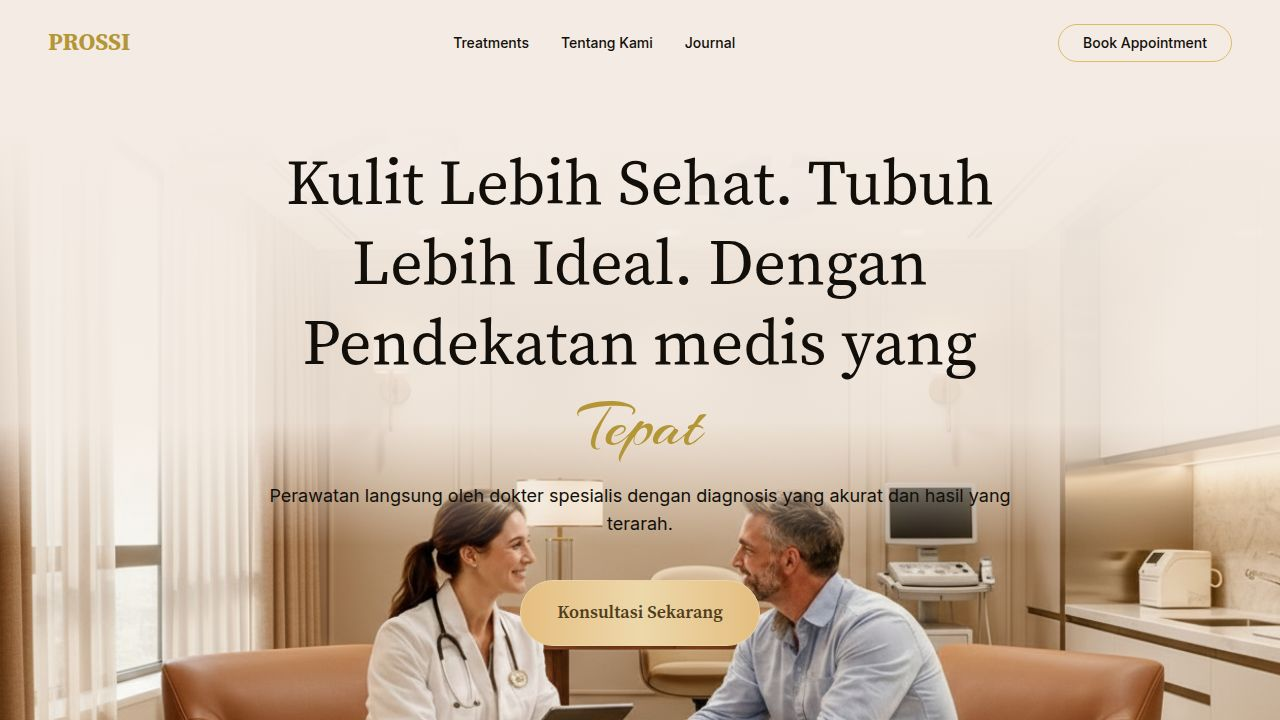
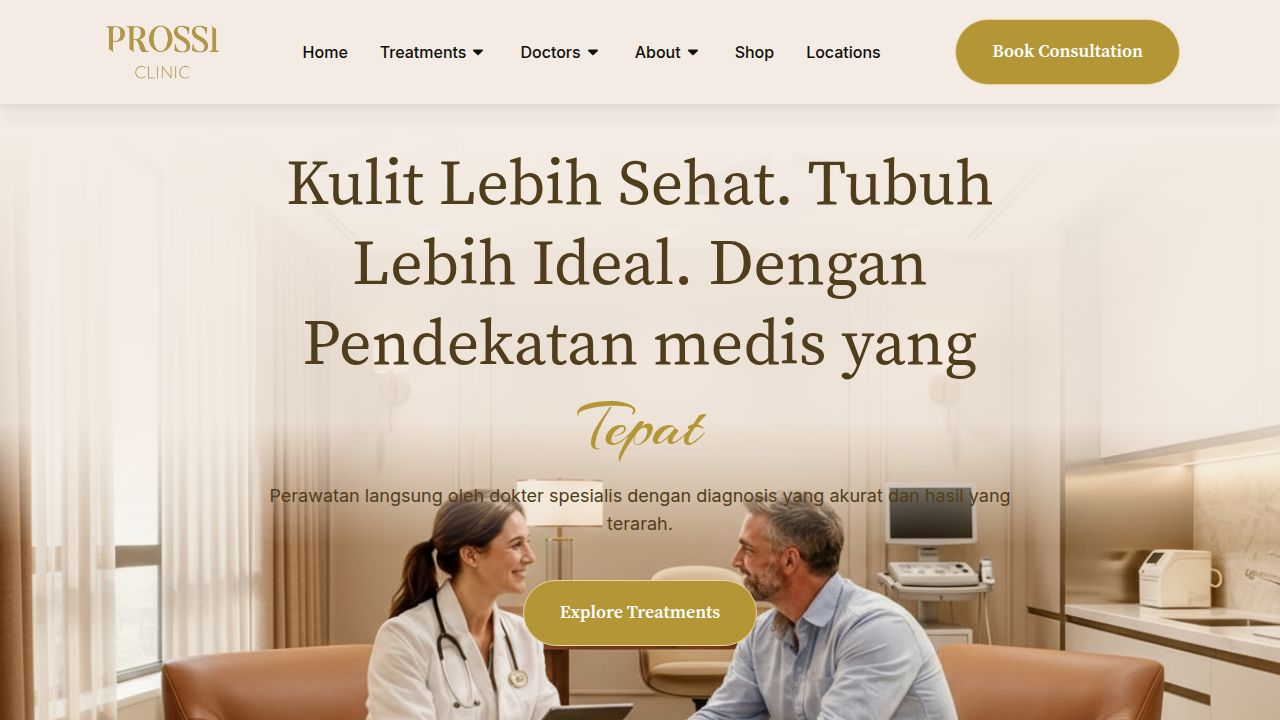
Update website appearance and fix various display issues
Refactor UI components, adjust styling, and resolve display bugs across multiple sections of the application.

Replit-Commit-Author: Agent
Replit-Commit-Session-Id: a7e3f302-8507-4999-b851-2c432ed7d416
Replit-Commit-Checkpoint-Type: full_checkpoint
Replit-Commit-Event-Id: 56c00a30-6593-4453-9301-af835bf2e9e8
Replit-Commit-Screenshot-Url: https://storage.googleapis.com/screenshot-production-us-central1/4498c266-a2f2-46f4-b6d2-e0b29c64a6cc/a7e3f302-8507-4999-b851-2c432ed7d416/XmeTHyD
Replit-Helium-Checkpoint-Created: true

diff --git a/artifacts/prossi/src/components/Header.tsx b/artifacts/prossi/src/components/Header.tsx
@@ -1,53 +1,76 @@
 import React, { useState } from "react";
 import { Link } from "wouter";
 import imgUntitledDesign181 from "@/assets/figma/imgUntitledDesign181.png";
+import imgIconamoonArrowUp2Fill from "@/assets/figma/imgIconamoonArrowUp2Fill.svg";
+
+const navItems = [
+  { label: "Home", dropdown: false },
+  { label: "Treatments", dropdown: true },
+  { label: "Doctors", dropdown: true },
+  { label: "About", dropdown: true },
+  { label: "Shop", dropdown: false },
+  { label: "Locations", dropdown: false },
+];
 
 export function Header() {
   const [isOpen, setIsOpen] = useState(false);
 
   return (
-    <header className="absolute top-0 left-0 right-0 z-50 flex items-center justify-between px-6 py-4 md:px-12 md:py-6 max-w-[1440px] mx-auto">
-      <div className="flex items-center gap-4">
+    <header className="absolute top-0 left-0 right-0 z-50 bg-[#f4ece4] px-6 md:px-[100px] py-4 shadow-[0px_18px_9px_rgba(56,0,30,0.03),0px_5px_5px_rgba(56,0,30,0.04)]">
+      <div className="max-w-[1240px] mx-auto flex items-center justify-between">
         <Link href="/">
-          <div className="cursor-pointer">
-            <img src={imgUntitledDesign181} alt="Prossi Clinic" className="w-[128px] h-[72px] object-contain" />
-          </div>
+          <img
+            src={imgUntitledDesign181}
+            alt="Prossi Clinic"
+            className="w-[128px] h-[72px] object-contain cursor-pointer"
+          />
         </Link>
+
+        <nav className="hidden lg:flex items-center gap-8">
+          {navItems.map((item) => (
+            <button
+              key={item.label}
+              className="flex items-center gap-0.5 text-[16px] font-medium text-[#120f0b] hover:text-[#b59637] transition-colors"
+            >
+              {item.label}
+              {item.dropdown && (
+                <img src={imgIconamoonArrowUp2Fill} alt="" className="w-5 h-5 rotate-180" />
+              )}
+            </button>
+          ))}
+        </nav>
+
+        <button className="hidden lg:flex bg-[#b59637] border border-[#ecd5a5] rounded-full px-9 py-[18px] text-white font-serif font-semibold text-lg hover:opacity-90 transition-opacity items-center justify-center">
+          Book Consultation
+        </button>
+
+        {/* Mobile menu button */}
+        <button
+          className="lg:hidden flex flex-col gap-1.5 z-50 p-2"
+          onClick={() => setIsOpen(!isOpen)}
+        >
+          <span className={`block w-6 h-0.5 bg-[#120f0b] transition-transform ${isOpen ? 'rotate-45 translate-y-2' : ''}`}></span>
+          <span className={`block w-6 h-0.5 bg-[#120f0b] transition-opacity ${isOpen ? 'opacity-0' : ''}`}></span>
+          <span className={`block w-6 h-0.5 bg-[#120f0b] transition-transform ${isOpen ? '-rotate-45 -translate-y-2' : ''}`}></span>
+        </button>
       </div>
-      
-      {/* Mobile menu button */}
-      <button 
-        className="md:hidden flex flex-col gap-1.5 z-50 p-2"
-        onClick={() => setIsOpen(!isOpen)}
-      >
-        <span className={`block w-6 h-0.5 bg-[#120f0b] transition-transform ${isOpen ? 'rotate-45 translate-y-2' : ''}`}></span>
-        <span className={`block w-6 h-0.5 bg-[#120f0b] transition-opacity ${isOpen ? 'opacity-0' : ''}`}></span>
-        <span className={`block w-6 h-0.5 bg-[#120f0b] transition-transform ${isOpen ? '-rotate-45 -translate-y-2' : ''}`}></span>
-      </button>
 
       {/* Mobile menu overlay */}
       {isOpen && (
-        <div className="absolute top-full left-0 right-0 bg-white/95 backdrop-blur-sm shadow-md py-6 px-6 flex flex-col gap-6 md:hidden">
-          <Link href="/treatments"><span className="cursor-pointer hover:text-[#b59637] transition-colors font-medium">Treatments</span></Link>
-          <Link href="/about"><span className="cursor-pointer hover:text-[#b59637] transition-colors font-medium">Tentang Kami</span></Link>
-          <Link href="/journal"><span className="cursor-pointer hover:text-[#b59637] transition-colors font-medium">Journal</span></Link>
-          <button className="w-full px-6 py-3 rounded-full border border-[#deba69] text-[#120f0b] font-medium text-sm hover:bg-[#deba69] hover:text-white transition-colors mt-2">
-            Book Appointment
+        <div className="lg:hidden mt-4 flex flex-col gap-4 pb-2">
+          {navItems.map((item) => (
+            <span
+              key={item.label}
+              className="cursor-pointer hover:text-[#b59637] transition-colors font-medium text-[#120f0b]"
+            >
+              {item.label}
+            </span>
+          ))}
+          <button className="bg-[#b59637] border border-[#ecd5a5] rounded-full px-9 py-3 text-white font-serif font-semibold text-base mt-1">
+            Book Consultation
           </button>
         </div>
       )}
-      
-      <nav className="hidden md:flex items-center gap-8 font-medium text-sm text-[#120f0b]">
-        <Link href="/treatments"><span className="cursor-pointer hover:text-[#b59637] transition-colors">Treatments</span></Link>
-        <Link href="/about"><span className="cursor-pointer hover:text-[#b59637] transition-colors">Tentang Kami</span></Link>
-        <Link href="/journal"><span className="cursor-pointer hover:text-[#b59637] transition-colors">Journal</span></Link>
-      </nav>
-      
-      <div className="hidden md:flex items-center gap-4">
-        <button className="px-6 py-2 rounded-full border border-[#deba69] text-[#120f0b] font-medium text-sm hover:bg-[#deba69] hover:text-white transition-colors">
-          Book Appointment
-        </button>
-      </div>
     </header>
   );
 }

diff --git a/artifacts/prossi/src/components/sections/Stats.tsx b/artifacts/prossi/src/components/sections/Stats.tsx
@@ -1,21 +1,38 @@
 import React from "react";
+import imgPremium from "@/assets/figma/imgPremium187273551.svg";
+import imgSpecialist from "@/assets/figma/imgLayer2.svg";
+import imgShield from "@/assets/figma/imgShield131932661.svg";
 
 export function Stats() {
   const stats = [
-    { value: "10+", label: "Tahun Pengalaman" },
-    { value: "15.500+", label: "Pasien Terpercaya" },
-    { value: "92%", label: "Tingkat Kepuasan" }
+    { value: "10+", label: "Tahun Pengalaman", icon: imgPremium },
+    { value: "15,000+", label: "Pasien Ditangani", icon: imgSpecialist },
+    { value: "92%", label: "Patient Satisfaction", icon: imgShield },
   ];
 
   return (
-    <section className="bg-[#f4ece4] w-full py-12 px-6 flex justify-center">
-      <div className="max-w-[1240px] w-full flex flex-col md:flex-row justify-center items-center gap-12 md:gap-32 border-y border-[#deba69]/30 py-8">
-        {stats.map((stat, i) => (
-          <div key={i} className="flex flex-col items-center text-center gap-2">
-            <span className="font-serif font-semibold text-4xl md:text-5xl text-[#c26345]">{stat.value}</span>
-            <span className="font-sans font-medium text-lg text-[#120f0b] opacity-80">{stat.label}</span>
-          </div>
-        ))}
+    <section className="relative z-30 w-full flex justify-center px-6 -mt-[120px] mb-[-70px]">
+      <div className="max-w-[1240px] w-full backdrop-blur-[11px] bg-[rgba(255,248,242,0.85)] rounded-[32px] px-8 md:px-[64px] py-8 md:py-[32px] shadow-[0px_18px_40px_rgba(56,0,30,0.08)]">
+        <div className="flex flex-col md:flex-row items-center justify-between gap-8 md:gap-0">
+          {stats.map((stat, i) => (
+            <React.Fragment key={i}>
+              <div className="flex items-center gap-5">
+                <img src={stat.icon} alt="" className="w-[54px] h-[54px] shrink-0" />
+                <div className="flex flex-col">
+                  <span className="font-serif font-semibold text-[40px] text-[#503d1c] capitalize leading-none">
+                    {stat.value}
+                  </span>
+                  <span className="font-sans text-lg text-[#120f0b] opacity-80 mt-1">
+                    {stat.label}
+                  </span>
+                </div>
+              </div>
+              {i < stats.length - 1 && (
+                <div className="hidden md:block w-px self-stretch bg-[#503d1c]/20" />
+              )}
+            </React.Fragment>
+          ))}
+        </div>
       </div>
     </section>
   );

diff --git a/artifacts/prossi/src/components/sections/Hero.tsx b/artifacts/prossi/src/components/sections/Hero.tsx
@@ -1,6 +1,7 @@
 import React from "react";
 import imgBackground1 from "@/assets/figma/imgBackground1.png";
-import imgFrame1618873279 from "@/assets/figma/imgFrame1618873279.jpg";
+import imgSystemUiconsArrowLeft from "@/assets/figma/imgSystemUiconsArrowLeft.svg";
+import imgSystemUiconsArrowLeft1 from "@/assets/figma/imgSystemUiconsArrowLeft1.svg";
 
 export function Hero() {
   return (
@@ -9,22 +10,29 @@ export function Hero() {
         <img src={imgBackground1} alt="" className="absolute h-full w-full object-cover" />
         <div className="absolute inset-0 bg-gradient-to-b from-[#f4ece4] from-[14%] via-[#f4ece4]/85 via-[48%] to-transparent to-[62%]"></div>
       </div>
-      
+
       <div className="relative z-10 max-w-[816px] flex flex-col items-center gap-[42px] px-6 text-center mt-[-168px]">
         <div className="flex flex-col gap-4 items-center w-full">
-          <h1 className="font-serif text-[40px] md:text-[64px] leading-tight text-[#120f0b]">
+          <h1 className="font-serif text-[40px] md:text-[64px] leading-tight text-[#503d1c]">
             Kulit Lebih Sehat. Tubuh Lebih Ideal. Dengan Pendekatan medis yang <span className="font-['Arizonia'] text-[#b59637]">Tepat</span>
           </h1>
-          <p className="font-sans text-lg text-[#120f0b]">
+          <p className="font-sans text-lg text-[#503d1c]">
             Perawatan langsung oleh dokter spesialis dengan diagnosis yang akurat dan hasil yang terarah.
           </p>
         </div>
-        
-        <div className="flex items-center gap-4">
-          <button className="bg-gradient-to-r from-[#e5be80] via-[#edd8ab] to-[#e5be80] border border-[#ecd5a5] rounded-full px-9 py-[18px] text-[#503d1c] font-serif font-semibold text-lg hover:opacity-90 transition-opacity">
-            Konsultasi Sekarang
-          </button>
-        </div>
+
+        <button className="bg-[#b59637] border border-[#ecd5a5] rounded-full px-9 py-[18px] text-white font-serif font-semibold text-lg hover:opacity-90 transition-opacity">
+          Explore Treatments
+        </button>
+      </div>
+
+      <div className="absolute bottom-[64px] left-1/2 -translate-x-1/2 flex items-center gap-6">
+        <button className="w-[52px] h-[52px] rounded-full bg-white/50 flex items-center justify-center hover:bg-white transition-colors cursor-pointer">
+          <img src={imgSystemUiconsArrowLeft} alt="Previous" className="w-[26px] h-[26px]" />
+        </button>
+        <button className="w-[52px] h-[52px] rounded-full bg-[#66533b] flex items-center justify-center hover:bg-[#503d1c] transition-colors cursor-pointer">
+          <img src={imgSystemUiconsArrowLeft1} alt="Next" className="w-[26px] h-[26px] rotate-180" />
+        </button>
       </div>
     </section>
   );

diff --git a/artifacts/prossi/src/components/Footer.tsx b/artifacts/prossi/src/components/Footer.tsx
@@ -3,6 +3,7 @@ import imgUntitledDesign181 from "@/assets/figma/imgUntitledDesign181.png";
 import imgRiInstagramLine from "@/assets/figma/imgRiInstagramLine.svg";
 import imgGgFacebook from "@/assets/figma/imgGgFacebook.svg";
 import imgGroup from "@/assets/figma/imgGroup.svg";
+import imgGroup2 from "@/assets/figma/imgGroup2.svg";
 import imgFluentCall24Filled from "@/assets/figma/imgFluentCall24Filled.svg";
 import imgEmailIcon from "@/assets/figma/imgEmailIcon.svg";
 
@@ -18,15 +19,16 @@ export function Footer() {
             </p>
             <div className="flex gap-3">
               {/* Social icons */}
-              <div className="bg-[#f4ece4] rounded-full w-8 h-8 flex items-center justify-center cursor-pointer hover:bg-white transition-colors">
-                <img src={imgRiInstagramLine} alt="Instagram" className="w-4 h-4 text-[#216d73]" style={{filter: 'brightness(0) saturate(100%) invert(35%) sepia(21%) saturate(1450%) hue-rotate(143deg) brightness(88%) contrast(92%)'}} />
-              </div>
-              <div className="bg-[#f4ece4] rounded-full w-8 h-8 flex items-center justify-center cursor-pointer hover:bg-white transition-colors">
-                <img src={imgGgFacebook} alt="Facebook" className="w-4 h-4 text-[#216d73]" style={{filter: 'brightness(0) saturate(100%) invert(35%) sepia(21%) saturate(1450%) hue-rotate(143deg) brightness(88%) contrast(92%)'}} />
-              </div>
-              <div className="bg-[#f4ece4] rounded-full w-8 h-8 flex items-center justify-center cursor-pointer hover:bg-white transition-colors">
-                <img src={imgGroup} alt="Social" className="w-4 h-4 text-[#216d73]" style={{filter: 'brightness(0) saturate(100%) invert(35%) sepia(21%) saturate(1450%) hue-rotate(143deg) brightness(88%) contrast(92%)'}} />
-              </div>
+              {[
+                { src: imgGroup, alt: "Telegram" },
+                { src: imgRiInstagramLine, alt: "Instagram" },
+                { src: imgGgFacebook, alt: "Facebook" },
+                { src: imgGroup2, alt: "Twitter" },
+              ].map((icon) => (
+                <div key={icon.alt} className="bg-[#f4ece4] rounded-full w-8 h-8 flex items-center justify-center cursor-pointer hover:bg-white transition-colors">
+                  <img src={icon.src} alt={icon.alt} className="w-4 h-4" style={{filter: 'brightness(0) saturate(100%) invert(35%) sepia(21%) saturate(1450%) hue-rotate(143deg) brightness(88%) contrast(92%)'}} />
+                </div>
+              ))}
             </div>
           </div>
           

diff --git a/artifacts/prossi/src/components/sections/Services.tsx b/artifacts/prossi/src/components/sections/Services.tsx
@@ -7,19 +7,22 @@ import imgLine5 from "@/assets/figma/imgLine5.svg";
 export function Services() {
   const services = [
     {
-      title: "Slimming Program by Sp.GK",
+      titleTop: "Slimming Program by",
+      titleBottom: "Sp.GK",
       desc: "Support recovery, energy, and long-term cellular resilience.",
       img: imgProgramImage2,
       borderColor: "border-[#c26345]"
     },
     {
-      title: "Skin Treatment by Sp.DVE",
+      titleTop: "Skin Treatment by",
+      titleBottom: "Sp.DVE",
       desc: "Support recovery, energy, and long-term cellular resilience.",
       img: imgProgramImage,
       borderColor: "border-[#396b72]"
     },
     {
-      title: "Skin Treatment by Dokter Estetika",
+      titleTop: "Skin Treatment by",
+      titleBottom: "Dokter Estetika",
       desc: "Support recovery, energy, and long-term cellular resilience.",
       img: imgProgramImage1,
       borderColor: "border-[#deba69]"
@@ -40,15 +43,11 @@ export function Services() {
           {services.map((svc, i) => (
             <div key={i} className={`bg-gradient-to-b from-white to-[#fff9eb] border-4 ${svc.borderColor} rounded-[24px] p-3 pb-6 flex flex-col items-center gap-8`}>
               <div className="w-full h-[295px] rounded-[24px] overflow-hidden relative shrink-0">
-                <img src={svc.img} alt={svc.title} className="absolute inset-0 w-full h-full object-cover" />
+                <img src={svc.img} alt={svc.titleTop} className="absolute inset-0 w-full h-full object-cover" />
               </div>
               <div className="flex flex-col items-center gap-4 px-4 w-full">
-                <h3 className="font-serif font-semibold text-[22px] md:text-[26px] text-[#120f0b] text-center capitalize leading-tight">
-                  {svc.title.split(" by ").map((t, idx) => (
-                    <React.Fragment key={idx}>
-                      {t}{idx === 0 && " by "}<br/>
-                    </React.Fragment>
-                  ))}
+                <h3 className="font-['Lato'] font-semibold text-[22px] md:text-[26px] text-[#120f0b] text-center capitalize leading-tight">
+                  {svc.titleTop}<br/>{svc.titleBottom}
                 </h3>
                 <div className="w-[290px] h-0 relative">
                   <img src={imgLine5} alt="" className="absolute w-full" />

diff --git a/artifacts/prossi/src/components/sections/Team.tsx b/artifacts/prossi/src/components/sections/Team.tsx
@@ -9,7 +9,7 @@ export function Team() {
   const team = [
     { title: "Spesialis Gizi Klinis", img: imgTeamMemberImage },
     { title: "spesialis Kulit & Estetika", img: imgTeamMemberImage1 },
-    { title: "Dokter Estetika", img: imgTeamMemberImage2 }
+    { title: "Dokter Umum", img: imgTeamMemberImage2 }
   ];
 
   return (
@@ -21,7 +21,7 @@ export function Team() {
             <span className="font-sans font-semibold text-sm text-white tracking-widest uppercase">OUR DOCTORS</span>
             <img src={imgLine2} alt="" className="w-[63px] rotate-180" />
           </div>
-          <h2 className="font-serif font-semibold text-[32px] md:text-[40px] text-white capitalize">
+          <h2 className="font-['Lato'] font-semibold text-[32px] md:text-[40px] text-white capitalize">
             Ditangani oleh Dokter Spesialis yang Berpengalaman
           </h2>
           <p className="font-sans text-lg text-white max-w-[816px]">
@@ -38,13 +38,12 @@ export function Team() {
               <h3 className="font-serif font-semibold text-[26px] text-white text-center capitalize">
                 {member.title}
               </h3>
+              <button className="bg-[#b59637] border border-[#ecd5a5] rounded-full px-9 py-[18px] text-white font-serif font-semibold text-lg hover:opacity-90 transition-opacity">
+                View Doctors
+              </button>
             </div>
           ))}
         </div>
-
-        <button className="bg-transparent border border-[#ecd5a5] rounded-full px-9 py-[18px] text-white font-serif font-semibold text-lg hover:bg-white hover:text-[#b59637] transition-colors">
-          Read More
-        </button>
       </div>
     </section>
   );

diff --git a/artifacts/prossi/src/components/sections/CTA.tsx b/artifacts/prossi/src/components/sections/CTA.tsx
@@ -18,7 +18,7 @@ export function CTA() {
     if (emblaApi) emblaApi.scrollNext();
   }, [emblaApi]);
 
-  const slides = [1, 2, 3];
+  const slides = [1, 2];
 
   return (
     <section className="bg-[#f4ece4] w-full py-[100px] px-6 flex justify-center overflow-hidden">
@@ -39,10 +39,10 @@ export function CTA() {
                 <div className="relative z-10 w-full md:w-[547px] h-full flex flex-col justify-center px-8 md:px-[60px] py-8">
                   <div className="flex items-center gap-4 mb-6">
                     <img src={imgLine4} alt="" className="w-[63px]" />
-                    <span className="font-sans font-semibold text-sm text-[#120f0b] tracking-widest uppercase">PROMO</span>
+                    <span className="font-sans font-semibold text-sm text-[#120f0b] tracking-widest">Promo</span>
                     <img src={imgLine2} alt="" className="w-[63px] rotate-180" />
                   </div>
-                  <h2 className="font-serif font-semibold text-[32px] md:text-[40px] text-[#120f0b] capitalize leading-tight mb-6">
+                  <h2 className="font-['Lato'] font-semibold text-[32px] md:text-[40px] text-[#120f0b] capitalize leading-tight mb-6">
                     Designed for People Who Expect Clarity
                   </h2>
                   <p className="font-sans text-lg text-[#120f0b] mb-8">

diff --git a/artifacts/prossi/src/components/sections/Blog.tsx b/artifacts/prossi/src/components/sections/Blog.tsx
@@ -26,7 +26,7 @@ export function Blog() {
   ];
 
   return (
-    <section className="bg-white w-full py-[100px] px-6 md:px-[100px] flex flex-col items-center">
+    <section className="bg-[#f4ece4] w-full py-[100px] px-6 md:px-[100px] flex flex-col items-center">
       <div className="max-w-[1240px] w-full flex flex-col items-center gap-[60px]">
         <div className="flex flex-col items-center gap-6 w-full text-center max-w-[1030px]">
           <div className="flex items-center gap-4">

diff --git a/artifacts/prossi/src/components/sections/Testimonials.tsx b/artifacts/prossi/src/components/sections/Testimonials.tsx
@@ -63,7 +63,7 @@ export function Testimonials() {
             <span className="font-sans font-semibold text-sm text-[#120f0b] tracking-widest uppercase">TESTIMONIALS</span>
             <img src={imgLine2} alt="" className="w-[63px] rotate-180" />
           </div>
-          <h2 className="font-serif font-semibold text-[32px] md:text-[40px] text-[#120f0b] capitalize">
+          <h2 className="font-['Lato'] font-semibold text-[32px] md:text-[40px] text-[#120f0b] capitalize">
             Voices of Transformation
           </h2>
           <p className="font-sans text-lg text-[#120f0b]">

diff --git a/artifacts/prossi/src/pages/Home.tsx b/artifacts/prossi/src/pages/Home.tsx
@@ -17,8 +17,8 @@ export default function Home() {
       
       <main className="flex-1 flex flex-col items-center w-full">
         <Hero />
-        <Philosophy />
         <Stats />
+        <Philosophy />
         <Services />
         <Team />
         <Blog />

diff --git a/.agents/memory/screenshot-bottom-fade.md b/.agents/memory/screenshot-bottom-fade.md
@@ -1,0 +1,10 @@
+---
+name: Screenshot bottom-fade artifact
+description: The app_preview screenshot tool adds a fade gradient at the bottom of the captured frame; not a real CSS bug.
+---
+
+The `screenshot` tool (`type: app_preview`) renders a soft fade/wash over content sitting at the very bottom edge of the captured frame, signalling "more content continues below". Capture height is capped at 3000px per edge, so on a tall page any section near the bottom of the capture will look washed-out / low-contrast even when its CSS is clean.
+
+**Why:** Spent significant time chasing a phantom "gradient overlay" on Prossi's Services cards. The cards always landed at the bottom of a ≤3000px capture, so they always looked faded. The component had no overlay div at all — it was the tool's edge fade.
+
+**How to apply:** Before debugging a "faded section", confirm whether it sits at the bottom of the screenshot frame. If so, re-capture so the section is mid-frame (or trust the source code) rather than assuming a CSS bug. Can't offset the capture start — it's always top-anchored — so for sections beyond 3000px, verify via code/typecheck instead of screenshots.

diff --git a/.agents/memory/MEMORY.md b/.agents/memory/MEMORY.md
@@ -1,1 +1,1 @@
-- [Figma slicing into react-vite](figma-slicing-react-vite.md) — concrete-design slicing overrides the vague presentation brief; download assets via HTTP, name files by asset constant, map them, expect a 2nd DESIGN pass for logos/icons/sliders.
+- [Screenshot bottom-fade artifact](screenshot-bottom-fade.md) — app_preview screenshots fade the bottom edge; don't mistake it for a CSS overlay bug.